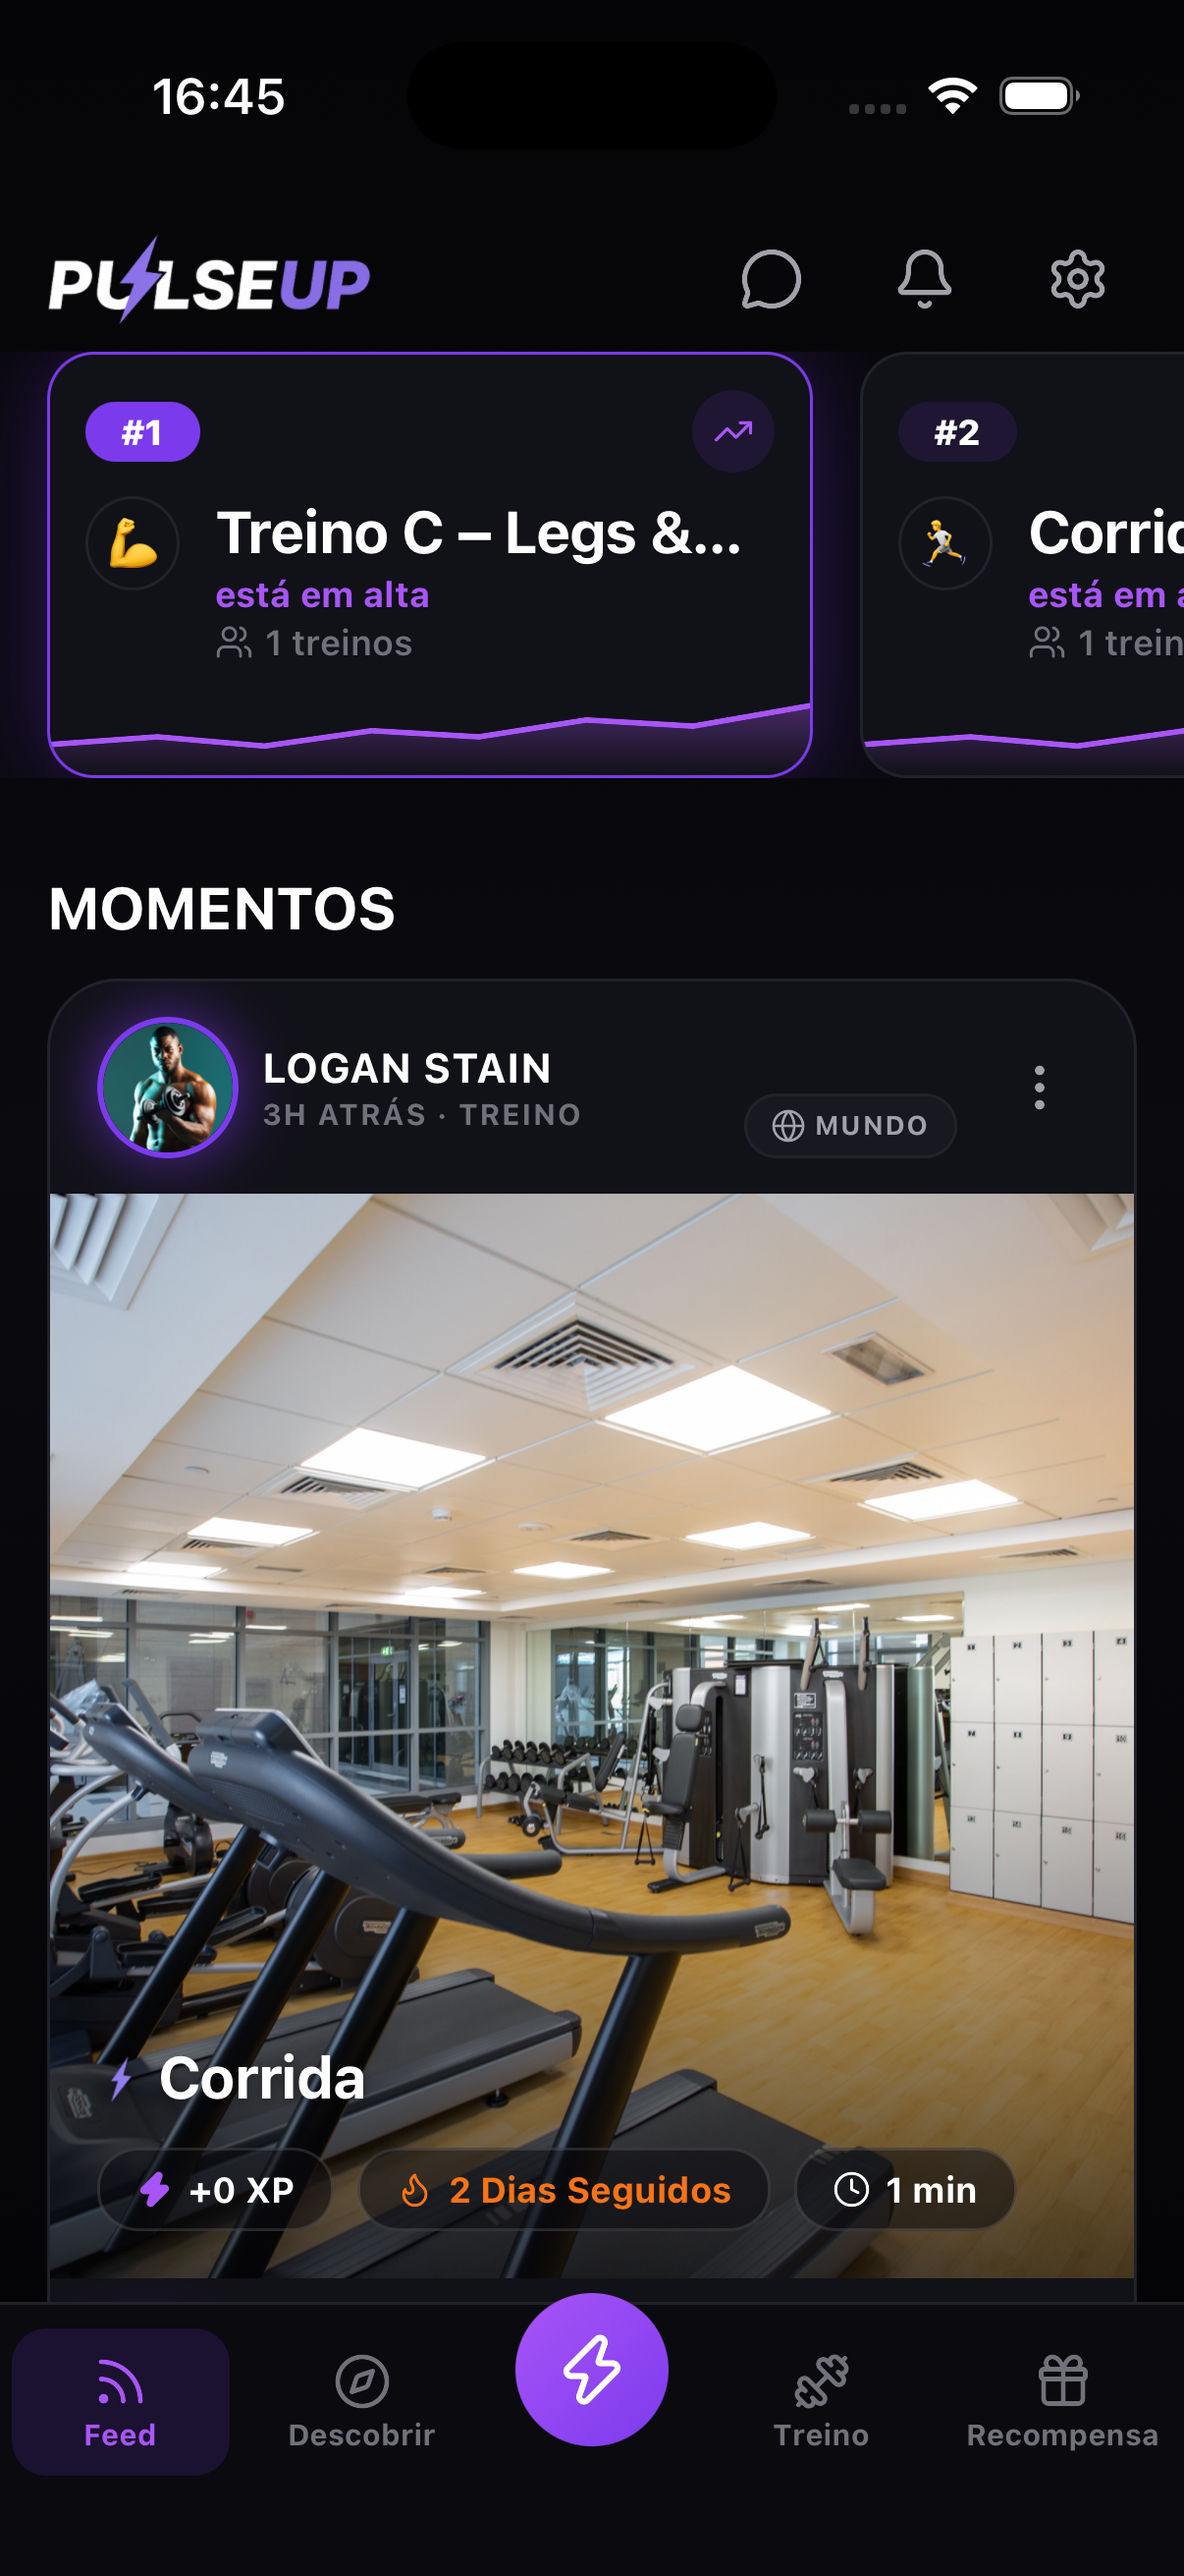
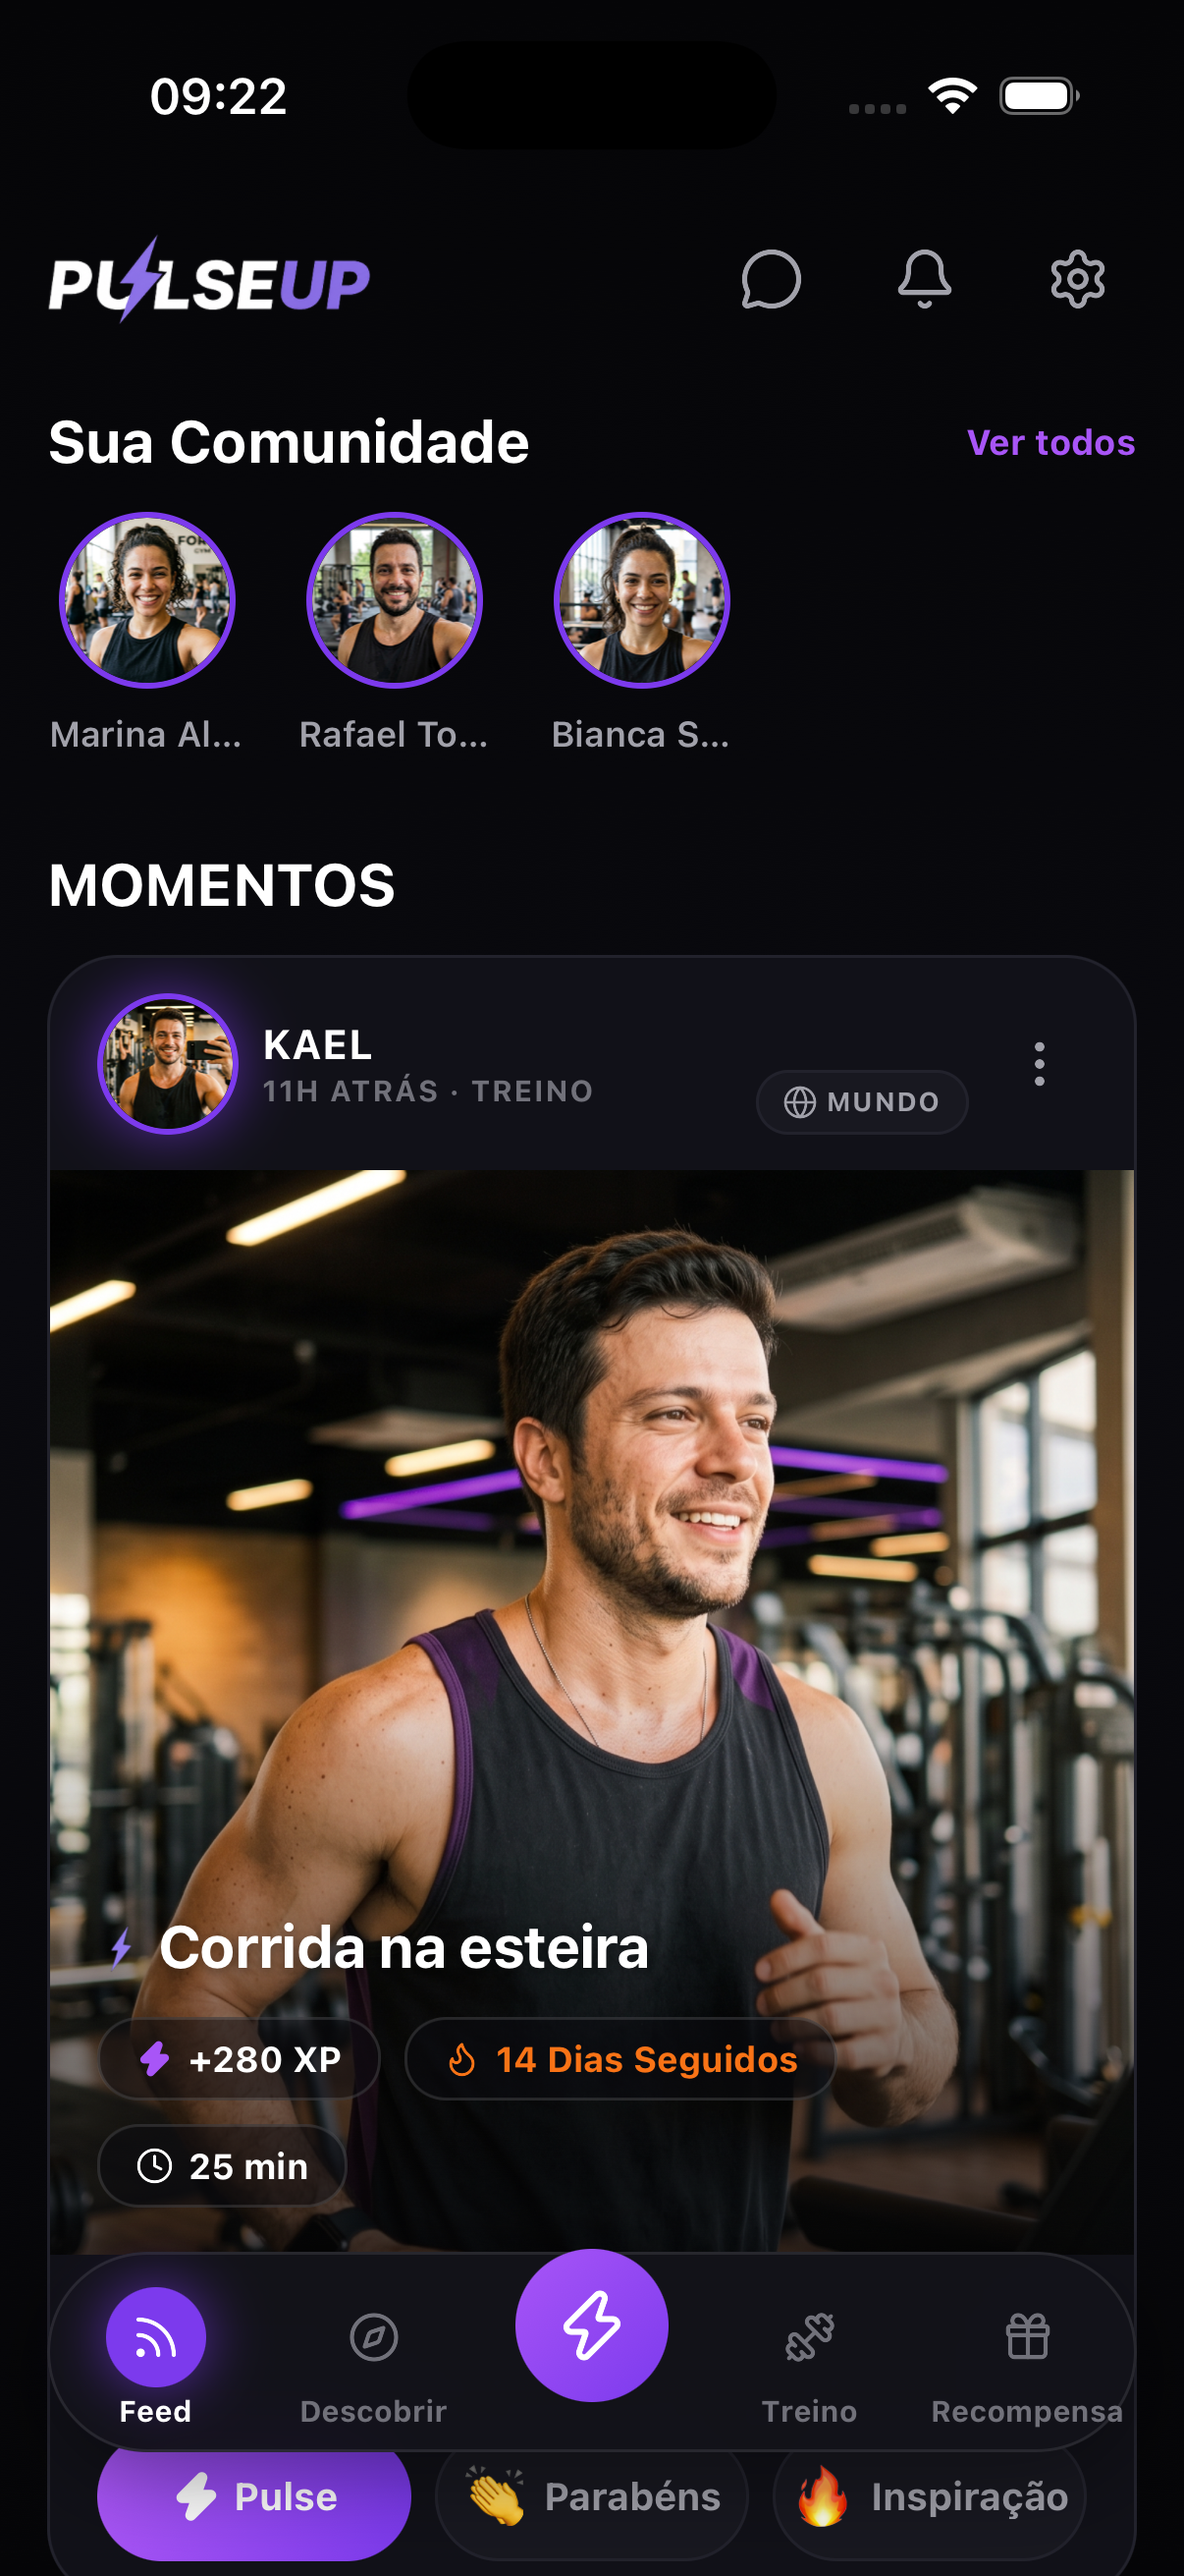
feat(landing): wire real home/party/live-cardio screenshots into default page
Adds home.png, party.png, party-workout.png, live-cardio.png and updates
feed.png/pulse-live.png/workout.png. Replaces the CSS/SVG mocks in Hero's
home and party-lobby phone slots, and rebuilds WorkoutParty and LiveCardio
around real PhoneFrame + AppScreenshot screens instead of hand-built mocks,
matching the pattern already used for ForCoaches/Gamification/WorkoutExperience.
Coach/Nutri themed pages are unaffected (still use their own persona screenshots).

diff --git a/src/components/sections/LiveCardio.tsx b/src/components/sections/LiveCardio.tsx
@@ -1,12 +1,15 @@
 "use client";
 
-import { motion } from "framer-motion";
-import { MapPin, Radio, Trophy, Timer } from "lucide-react";
+import { Trophy, Timer } from "lucide-react";
 import { Container } from "@/components/ui/Container";
 import { SectionHeading } from "@/components/ui/SectionHeading";
 import { GlassCard } from "@/components/ui/GlassCard";
 import { Reveal } from "@/components/ui/Reveal";
 import { GradientBlob } from "@/components/ui/GradientBlob";
+import { PhoneFrame } from "@/components/ui/PhoneFrame";
+import { Float } from "@/components/ui/Float";
+import { AppScreenshot } from "@/components/ui/AppScreenshot";
+import { screenshotSrc } from "@/lib/utils";
 import type { Dictionary } from "@/dictionaries";
 
 export function LiveCardio({ dict }: { dict: Dictionary["liveCardio"] }) {
@@ -16,91 +19,56 @@ export function LiveCardio({ dict }: { dict: Dictionary["liveCardio"] }) {
       <Container>
         <SectionHeading eyebrow={dict.eyebrow} title={dict.title} description={dict.description} />
 
-        <Reveal delay={0.1}>
-          <GlassCard hover={false} className="mt-16 overflow-hidden p-0">
-            <div className="grid grid-cols-1 lg:grid-cols-[1.4fr_1fr]">
-              <div className="relative h-[340px] overflow-hidden bg-[#070e0a] sm:h-[420px]">
-                <svg viewBox="0 0 400 400" className="h-full w-full opacity-90">
-                  <path
-                    d="M40 360 C 100 320, 60 240, 140 210 S 260 140, 220 60 S 340 20, 360 40"
-                    fill="none"
-                    style={{ stroke: "var(--color-primary-light)" }}
-                    strokeWidth="5"
-                    strokeLinecap="round"
-                  />
-                  <circle cx="220" cy="60" r="7" fill="#38BDF8" />
-                  <circle cx="140" cy="210" r="7" fill="#F97316" />
-                </svg>
-
-                <div className="absolute left-4 top-4 flex items-center gap-2 rounded-full bg-black/50 px-3 py-1.5 backdrop-blur">
-                  <span className="relative flex h-2 w-2">
-                    <span className="absolute inline-flex h-full w-full animate-ping rounded-full bg-error opacity-75" />
-                    <span className="relative inline-flex h-2 w-2 rounded-full bg-error" />
-                  </span>
-                  <span className="text-xs font-bold text-white">{dict.live}</span>
-                </div>
-
-                <div className="absolute right-4 top-4 flex items-center gap-2 rounded-full bg-black/50 px-3 py-1.5 backdrop-blur">
-                  <Radio size={12} className="text-primary-light" />
-                  <span className="text-xs font-semibold text-white">{dict.nearby}</span>
-                </div>
-
-                <motion.div
-                  initial={{ opacity: 0, y: 10 }}
-                  whileInView={{ opacity: 1, y: 0 }}
-                  viewport={{ once: true }}
-                  transition={{ duration: 0.6, delay: 0.3 }}
-                  className="absolute bottom-4 left-4 flex items-center gap-2 rounded-2xl bg-black/50 px-4 py-2.5 backdrop-blur"
-                >
-                  <MapPin size={16} className="text-primary-light" />
-                  <div>
-                    <div className="text-sm font-extrabold text-white">6.4 km</div>
-                    <div className="text-[10px] font-semibold uppercase tracking-wide text-white/50">
-                      {dict.distanceLabel}
-                    </div>
-                  </div>
-                </motion.div>
-              </div>
-
-              <div className="flex flex-col justify-between gap-6 p-8">
-                <div>
-                  <div className="flex items-center gap-2">
-                    <Trophy size={16} className="text-achievement" />
-                    <span className="text-sm font-bold text-white">{dict.leaderboardTitle}</span>
-                  </div>
-                  <div className="mt-4 flex flex-col gap-3">
-                    {dict.leaderboard.map((entry, i) => (
-                      <div
-                        key={entry.name}
-                        className="flex items-center justify-between rounded-xl border border-white/10 bg-white/5 px-4 py-3"
-                      >
-                        <div className="flex items-center gap-3">
-                          <span
-                            className={`flex h-6 w-6 items-center justify-center rounded-full text-xs font-bold ${
-                              i === 0 ? "bg-achievement text-black" : "bg-white/10 text-white/60"
-                            }`}
-                          >
-                            {i + 1}
-                          </span>
-                          <span className="text-sm font-semibold text-white">{entry.name}</span>
-                        </div>
-                        <span className="text-xs font-medium text-text-secondary">{entry.pace}</span>
-                      </div>
-                    ))}
-                  </div>
-                </div>
-
-                <div className="flex items-center gap-3 rounded-xl border border-white/10 bg-white/5 px-4 py-3">
-                  <Timer size={16} className="text-primary-light" />
-                  <div>
-                    <div className="text-xs font-semibold text-white/70">{dict.nextEvent}</div>
-                    <div className="text-sm font-bold text-white">{dict.nextEventDetail}</div>
-                  </div>
-                </div>
-              </div>
+        <div className="mt-16 grid grid-cols-1 items-center gap-16 lg:grid-cols-2">
+          <Reveal delay={0.1}>
+            <div className="relative flex justify-center">
+              <Float duration={6} delay={0}>
+                <PhoneFrame size="lg">
+                  <AppScreenshot src={screenshotSrc("live-cardio.png")} alt="PulseUp live cardio map screen" />
+                </PhoneFrame>
+              </Float>
             </div>
-          </GlassCard>
-        </Reveal>
+          </Reveal>
+
+          <Reveal delay={0.18}>
+            <GlassCard hover={false} className="flex flex-col justify-between gap-6 p-8">
+              <div>
+                <div className="flex items-center gap-2">
+                  <Trophy size={16} className="text-achievement" />
+                  <span className="text-sm font-bold text-white">{dict.leaderboardTitle}</span>
+                </div>
+                <div className="mt-4 flex flex-col gap-3">
+                  {dict.leaderboard.map((entry, i) => (
+                    <div
+                      key={entry.name}
+                      className="flex items-center justify-between rounded-xl border border-white/10 bg-white/5 px-4 py-3"
+                    >
+                      <div className="flex items-center gap-3">
+                        <span
+                          className={`flex h-6 w-6 items-center justify-center rounded-full text-xs font-bold ${
+                            i === 0 ? "bg-achievement text-black" : "bg-white/10 text-white/60"
+                          }`}
+                        >
+                          {i + 1}
+                        </span>
+                        <span className="text-sm font-semibold text-white">{entry.name}</span>
+                      </div>
+                      <span className="text-xs font-medium text-text-secondary">{entry.pace}</span>
+                    </div>
+                  ))}
+                </div>
+              </div>
+
+              <div className="flex items-center gap-3 rounded-xl border border-white/10 bg-white/5 px-4 py-3">
+                <Timer size={16} className="text-primary-light" />
+                <div>
+                  <div className="text-xs font-semibold text-white/70">{dict.nextEvent}</div>
+                  <div className="text-sm font-bold text-white">{dict.nextEventDetail}</div>
+                </div>
+              </div>
+            </GlassCard>
+          </Reveal>
+        </div>
       </Container>
     </section>
   );

diff --git a/src/components/sections/WorkoutParty.tsx b/src/components/sections/WorkoutParty.tsx
@@ -1,17 +1,14 @@
 "use client";
 
-import Image from "next/image";
-import { motion } from "framer-motion";
-import { Zap, Check } from "lucide-react";
+import { Check } from "lucide-react";
 import { Container } from "@/components/ui/Container";
-import { GlassCard } from "@/components/ui/GlassCard";
 import { Reveal } from "@/components/ui/Reveal";
 import { GradientBlob } from "@/components/ui/GradientBlob";
+import { PhoneFrame } from "@/components/ui/PhoneFrame";
+import { Float } from "@/components/ui/Float";
+import { AppScreenshot } from "@/components/ui/AppScreenshot";
+import { screenshotSrc } from "@/lib/utils";
 import type { Dictionary } from "@/dictionaries";
-
-// Index-aligned with dict.workoutParty.players -- not part of the dictionary
-// itself since the same photo is reused across locales.
-const PLAYER_AVATARS = ["/avatars/marina.jpg", "/avatars/diego.jpg", "/avatars/you.jpg", "/avatars/kaique.jpg"];
 
 export function WorkoutParty({ dict }: { dict: Dictionary["workoutParty"] }) {
   return (
@@ -19,77 +16,13 @@ export function WorkoutParty({ dict }: { dict: Dictionary["workoutParty"] }) {
       <GradientBlob className="right-1/2 bottom-0 h-[460px] w-[460px] translate-x-1/2 bg-primary/20" />
       <Container className="grid grid-cols-1 items-center gap-16 lg:grid-cols-2">
         <Reveal>
-          <GlassCard hover={false} className="mx-auto max-w-md p-8">
-            <div className="text-center">
-              <span className="text-xs font-bold uppercase tracking-wide text-text-tertiary">
-                {dict.lobbyLabel}
-              </span>
-              <h3 className="mt-1 text-xl font-extrabold text-white">{dict.lobbyName}</h3>
-            </div>
-
-            <div className="relative mx-auto mt-8 flex h-28 w-28 items-center justify-center">
-              <svg className="absolute inset-0 h-full w-full -rotate-90">
-                <circle
-                  cx="56"
-                  cy="56"
-                  r="50"
-                  fill="none"
-                  stroke="rgba(255,255,255,0.08)"
-                  strokeWidth="6"
-                />
-                <motion.circle
-                  cx="56"
-                  cy="56"
-                  r="50"
-                  fill="none"
-                  stroke="url(#partyGradient)"
-                  strokeWidth="6"
-                  strokeLinecap="round"
-                  strokeDasharray={2 * Math.PI * 50}
-                  initial={{ strokeDashoffset: 2 * Math.PI * 50 }}
-                  whileInView={{ strokeDashoffset: 2 * Math.PI * 50 * 0.25 }}
-                  viewport={{ once: true }}
-                  transition={{ duration: 1.4, ease: "easeOut" }}
-                />
-                <defs>
-                  <linearGradient id="partyGradient" x1="0" y1="0" x2="1" y2="1">
-                    <stop offset="0%" style={{ stopColor: "var(--color-neon)" }} />
-                    <stop offset="100%" style={{ stopColor: "var(--color-primary)" }} />
-                  </linearGradient>
-                </defs>
-              </svg>
-              <span className="text-4xl font-extrabold text-white">3</span>
-            </div>
-
-            <div className="mt-8 grid grid-cols-4 gap-3">
-              {dict.players.map((player, i) => (
-                <div key={player.name} className="flex flex-col items-center gap-2">
-                  <div
-                    className={`relative h-12 w-12 rounded-full ${
-                      player.ready ? "ring-2 ring-success ring-offset-2 ring-offset-surface" : "opacity-50"
-                    }`}
-                  >
-                    <div className="absolute inset-0 overflow-hidden rounded-full">
-                      <Image src={PLAYER_AVATARS[i]} alt={player.name} fill className="object-cover" sizes="48px" />
-                    </div>
-                    {player.ready && (
-                      <span className="absolute -bottom-1 -right-1 flex h-5 w-5 items-center justify-center rounded-full bg-success ring-2 ring-surface">
-                        <Check size={11} className="text-white" />
-                      </span>
-                    )}
-                  </div>
-                  <span className="text-[10px] font-semibold text-text-secondary">
-                    {player.name}
-                  </span>
-                </div>
-              ))}
-            </div>
-
-            <div className="mt-8 flex items-center justify-center gap-2 rounded-full bg-achievement/15 px-4 py-2.5">
-              <Zap size={14} className="fill-achievement text-achievement" />
-              <span className="text-sm font-bold text-achievement">{dict.bonus}</span>
-            </div>
-          </GlassCard>
+          <div className="relative flex justify-center">
+            <Float duration={6} delay={0}>
+              <PhoneFrame size="lg">
+                <AppScreenshot src={screenshotSrc("party-workout.png")} alt="PulseUp party workout screen" />
+              </PhoneFrame>
+            </Float>
+          </div>
         </Reveal>
 
         <div>

diff --git a/src/components/sections/Hero.tsx b/src/components/sections/Hero.tsx
@@ -100,7 +100,11 @@ export function Hero({
           <div className="relative flex items-end justify-center">
             <Float duration={7} delay={0.4} className="hidden xl:block">
               <PhoneFrame size="sm" className="-mr-10 mb-10 rotate-[-14deg] opacity-80 blur-[0.5px]">
-                <CardioMock />
+                {screenshotVariant ? (
+                  <CardioMock />
+                ) : (
+                  <AppScreenshot src={screenshotSrc("live-cardio.png")} alt="PulseUp live cardio map screen" />
+                )}
               </PhoneFrame>
             </Float>
 
@@ -123,16 +127,20 @@ export function Hero({
                   src={
                     screenshotVariant
                       ? personaScreenshotSrc(screenshotVariant, "home")
-                      : screenshotSrc("feed.png")
+                      : screenshotSrc("home.png")
                   }
-                  alt="PulseUp feed screen"
+                  alt="PulseUp home screen"
                 />
               </PhoneFrame>
             </Float>
 
             <Float duration={6} delay={0.2} className="hidden sm:block">
               <PhoneFrame size="md" className="-ml-6 mb-6 rotate-[8deg]">
-                <PartyMock />
+                {screenshotVariant ? (
+                  <PartyMock />
+                ) : (
+                  <AppScreenshot src={screenshotSrc("party.png")} alt="PulseUp party workout lobby screen" />
+                )}
               </PhoneFrame>
             </Float>
 
